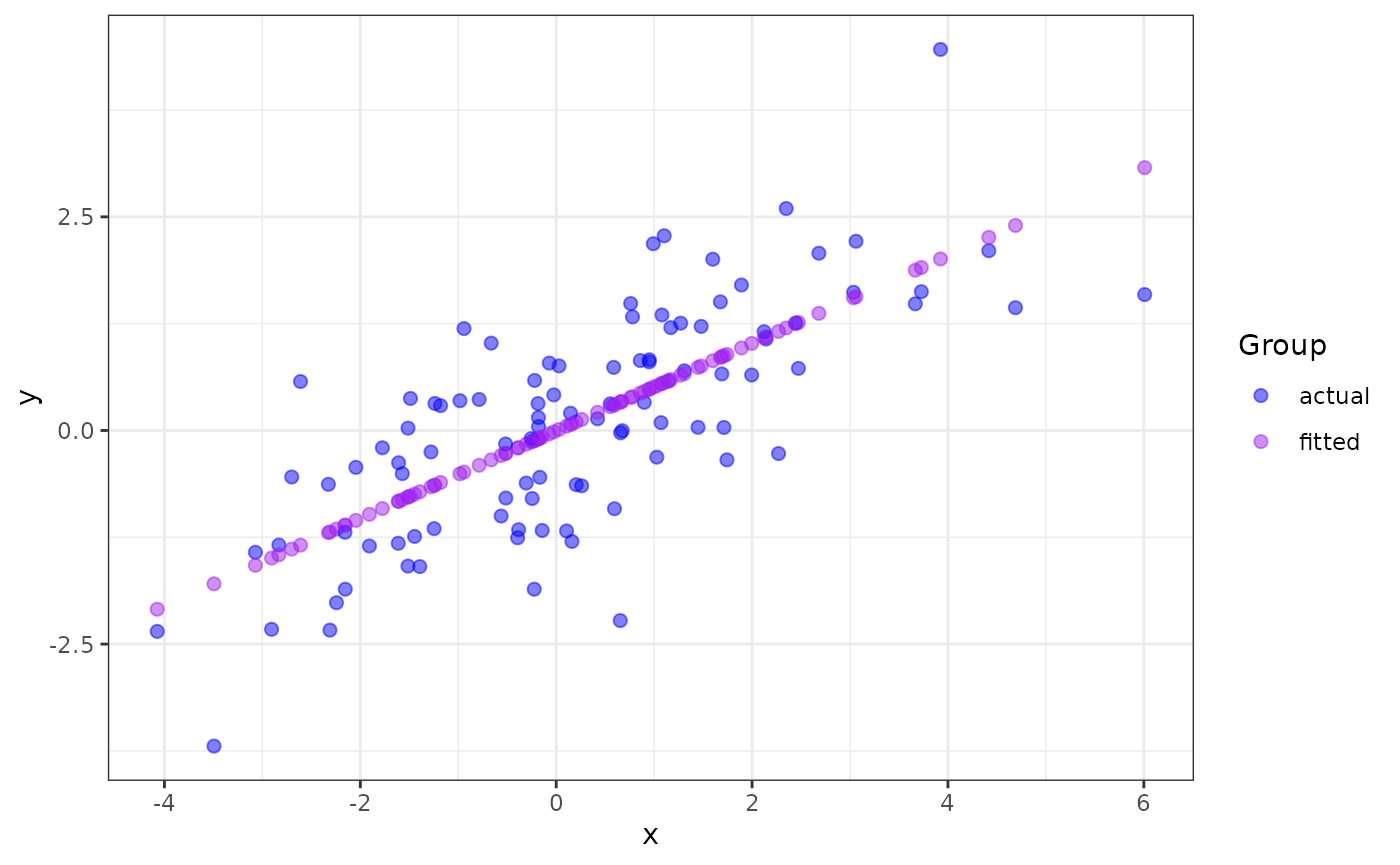
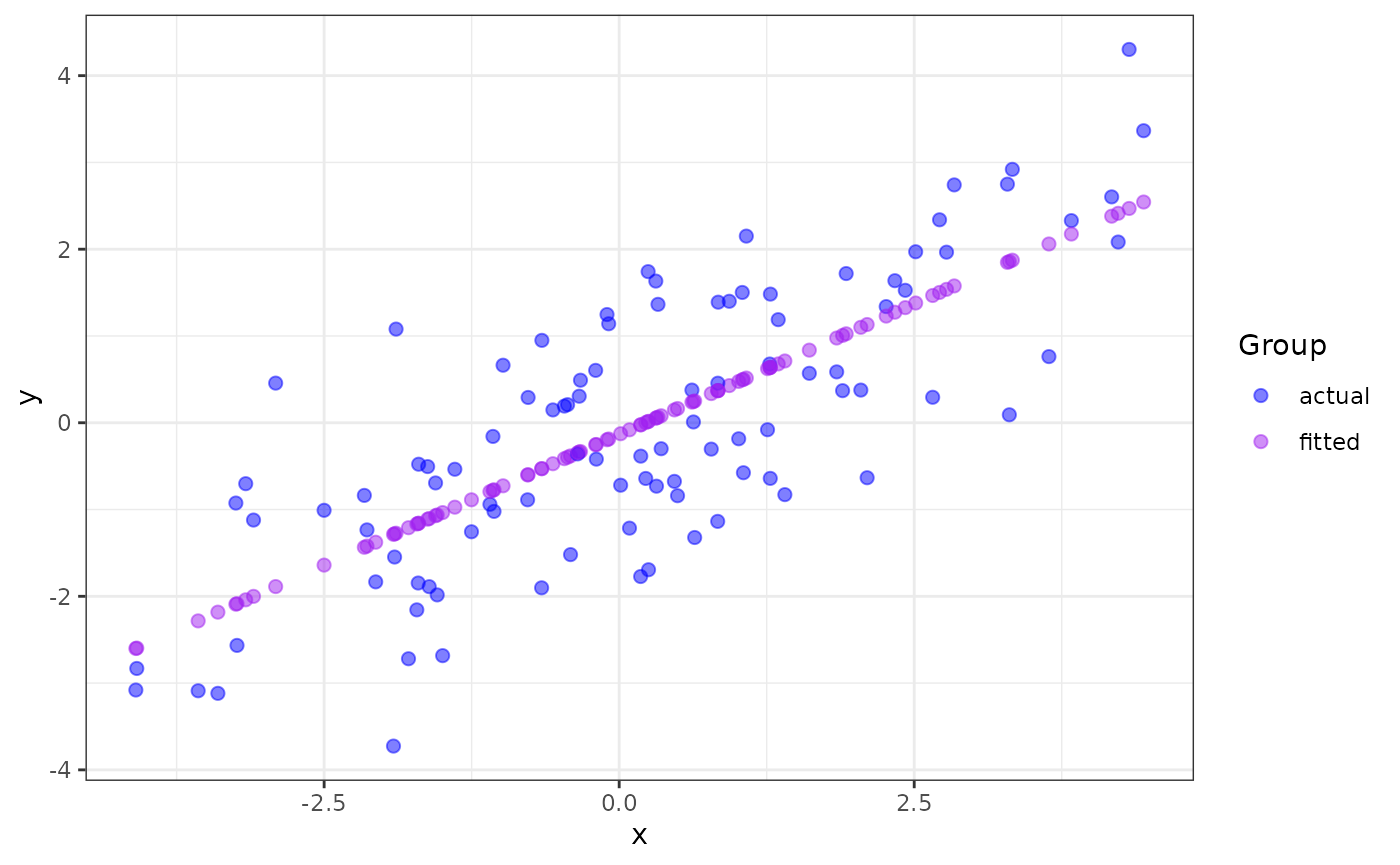
Built site for ggmatplot: 0.1.1@5c6ae83

diff --git a/articles/ggmatplot.html b/articles/ggmatplot.html
@@ -103,7 +103,7 @@
 <span class="va">x</span> <span class="op">&lt;-</span> <span class="fu"><a href="https://rdrr.io/r/base/c.html" class="external-link">c</a></span><span class="op">(</span><span class="fu"><a href="https://rdrr.io/r/stats/Normal.html" class="external-link">rnorm</a></span><span class="op">(</span><span class="fl">100</span>, sd <span class="op">=</span> <span class="fl">2</span><span class="op">)</span><span class="op">)</span>
 
 <span class="fu"><a href="https://rdrr.io/r/utils/head.html" class="external-link">head</a></span><span class="op">(</span><span class="va">x</span><span class="op">)</span>
-<span class="co">#&gt; [1] -0.3067478 -2.3263969  0.7790526  3.7279195 -2.6107936  4.4170894</span>
+<span class="co">#&gt; [1]  0.2250911  1.0127281  0.6164705 -3.5674441  0.3556864 -1.0696147</span>
 
 <span class="co"># matrix z</span>
 <span class="va">y</span> <span class="op">&lt;-</span> <span class="va">x</span> <span class="op">*</span> <span class="fl">0.5</span> <span class="op">+</span> <span class="fu"><a href="https://rdrr.io/r/stats/Normal.html" class="external-link">rnorm</a></span><span class="op">(</span><span class="fl">100</span>, sd <span class="op">=</span> <span class="fl">1</span><span class="op">)</span>
@@ -112,13 +112,13 @@
            fitted <span class="op">=</span> <span class="va">fit.y</span><span class="op">)</span>
 
 <span class="fu"><a href="https://rdrr.io/r/utils/head.html" class="external-link">head</a></span><span class="op">(</span><span class="va">z</span><span class="op">)</span>
-<span class="co">#&gt;       actual     fitted</span>
-<span class="co">#&gt; 1 -0.6155823 -0.1611228</span>
-<span class="co">#&gt; 2 -0.6304704 -1.1961904</span>
-<span class="co">#&gt; 3  1.3291666  0.3953487</span>
-<span class="co">#&gt; 4  1.6241879  1.9066394</span>
-<span class="co">#&gt; 5  0.5726986 -1.3419434</span>
-<span class="co">#&gt; 6  2.1037027  2.2598381</span></code></pre></div>
+<span class="co">#&gt;       actual       fitted</span>
+<span class="co">#&gt; 1 -0.6419010  0.001748272</span>
+<span class="co">#&gt; 2 -0.1846874  0.476306688</span>
+<span class="co">#&gt; 3  0.3766570  0.237557926</span>
+<span class="co">#&gt; 4 -3.0885697 -2.283288533</span>
+<span class="co">#&gt; 5 -0.2992523  0.080433114</span>
+<span class="co">#&gt; 6 -0.1575941 -0.778323699</span></code></pre></div>
 <p><code>ggmatplot</code> plots vector <code>x</code> against each column of matrix <code>z</code> using the default <code>plot_type = "point"</code>. This will be represented on the resulting plot as two groups, identified using different shapes and colors.</p>
 <div class="sourceCode" id="cb2"><pre class="downlit sourceCode r">
 <code class="sourceCode R"><span class="kw"><a href="https://rdrr.io/r/base/library.html" class="external-link">library</a></span><span class="op">(</span><span class="va"><a href="https://github.com/xuan-liang/ggmatplot" class="external-link">ggmatplot</a></span><span class="op">)</span>
@@ -253,7 +253,7 @@
 
 <div class="pkgdown">
   <p></p>
-<p>Site built with <a href="https://pkgdown.r-lib.org/" class="external-link">pkgdown</a> 2.0.2.</p>
+<p>Site built with <a href="https://pkgdown.r-lib.org/" class="external-link">pkgdown</a> 2.0.3.</p>
 </div>
 
       </footer>

diff --git a/news/index.html b/news/index.html
@@ -60,13 +60,10 @@
       <small>Source: <a href="https://github.com/xuan-liang/ggmatplot/blob/HEAD/NEWS.md" class="external-link"><code>NEWS.md</code></a></small>
     </div>
 
-    <div class="section level2">
-<h2 class="page-header" data-toc-text="development version" id="ggmatplot-development-version">ggmatplot (development version)<a class="anchor" aria-label="anchor" href="#ggmatplot-development-version"></a></h2>
-</div>
+    <div class="section level2"><h2 class="page-header" data-toc-text="development version" id="ggmatplot-development-version">ggmatplot (development version)<a class="anchor" aria-label="anchor" href="#ggmatplot-development-version"></a></h2></div>
     <div class="section level2">
 <h2 class="page-header" data-toc-text="0.1.0" id="ggmatplot-010">ggmatplot 0.1.0<small>2021-12-08</small><a class="anchor" aria-label="anchor" href="#ggmatplot-010"></a></h2>
-<ul><li>This old version has been archived on CRAN.</li>
-</ul></div>
+<ul><li>This old version has been archived on CRAN.</li></ul></div>
   </div>
 
   <div class="col-md-3 hidden-xs hidden-sm" id="pkgdown-sidebar">
@@ -81,7 +78,7 @@
 </div>
 
 <div class="pkgdown">
-  <p></p><p>Site built with <a href="https://pkgdown.r-lib.org/" class="external-link">pkgdown</a> 2.0.2.</p>
+  <p></p><p>Site built with <a href="https://pkgdown.r-lib.org/" class="external-link">pkgdown</a> 2.0.3.</p>
 </div>
 
       </footer></div>

diff --git a/LICENSE.html b/LICENSE.html
@@ -60,7 +60,6 @@
     </div>
 
 <div id="gnu-general-public-license" class="section level1">
-
 <p><em>Version 3, 29 June 2007</em><br><em>Copyright © 2007 Free Software Foundation, Inc. &lt;<a href="http://fsf.org/" class="external-link uri">http://fsf.org/</a>&gt;</em></p>
 <p>Everyone is permitted to copy and distribute verbatim copies of this license document, but changing it is not allowed.</p>
 <div class="section level2">
@@ -271,7 +270,7 @@
 </div>
 
 <div class="pkgdown">
-  <p></p><p>Site built with <a href="https://pkgdown.r-lib.org/" class="external-link">pkgdown</a> 2.0.2.</p>
+  <p></p><p>Site built with <a href="https://pkgdown.r-lib.org/" class="external-link">pkgdown</a> 2.0.3.</p>
 </div>
 
       </footer></div>

diff --git a/reference/ggmatplot.html b/reference/ggmatplot.html
@@ -199,7 +199,7 @@ or <a href="https://ggplot2.tidyverse.org/reference/index.html#section-stats" cl
 </div>
 
 <div class="pkgdown">
-  <p></p><p>Site built with <a href="https://pkgdown.r-lib.org/" class="external-link">pkgdown</a> 2.0.2.</p>
+  <p></p><p>Site built with <a href="https://pkgdown.r-lib.org/" class="external-link">pkgdown</a> 2.0.3.</p>
 </div>
 
       </footer></div>

diff --git a/404.html b/404.html
@@ -103,7 +103,7 @@ Content not found. Please use links in the navbar.
 
 <div class="pkgdown">
   <p></p>
-<p>Site built with <a href="https://pkgdown.r-lib.org/" class="external-link">pkgdown</a> 2.0.2.</p>
+<p>Site built with <a href="https://pkgdown.r-lib.org/" class="external-link">pkgdown</a> 2.0.3.</p>
 </div>
 
       </footer>

diff --git a/authors.html b/authors.html
@@ -106,7 +106,7 @@
 </div>
 
 <div class="pkgdown">
-  <p></p><p>Site built with <a href="https://pkgdown.r-lib.org/" class="external-link">pkgdown</a> 2.0.2.</p>
+  <p></p><p>Site built with <a href="https://pkgdown.r-lib.org/" class="external-link">pkgdown</a> 2.0.3.</p>
 </div>
 
       </footer></div>

diff --git a/articles/index.html b/articles/index.html
@@ -75,7 +75,7 @@
 </div>
 
 <div class="pkgdown">
-  <p></p><p>Site built with <a href="https://pkgdown.r-lib.org/" class="external-link">pkgdown</a> 2.0.2.</p>
+  <p></p><p>Site built with <a href="https://pkgdown.r-lib.org/" class="external-link">pkgdown</a> 2.0.3.</p>
 </div>
 
       </footer></div>

diff --git a/reference/index.html b/reference/index.html
@@ -80,7 +80,7 @@
 </div>
 
 <div class="pkgdown">
-  <p></p><p>Site built with <a href="https://pkgdown.r-lib.org/" class="external-link">pkgdown</a> 2.0.2.</p>
+  <p></p><p>Site built with <a href="https://pkgdown.r-lib.org/" class="external-link">pkgdown</a> 2.0.3.</p>
 </div>
 
       </footer></div>

diff --git a/index.html b/index.html
@@ -337,7 +337,7 @@
 
 <div class="pkgdown">
   <p></p>
-<p>Site built with <a href="https://pkgdown.r-lib.org/" class="external-link">pkgdown</a> 2.0.2.</p>
+<p>Site built with <a href="https://pkgdown.r-lib.org/" class="external-link">pkgdown</a> 2.0.3.</p>
 </div>
 
       </footer>
